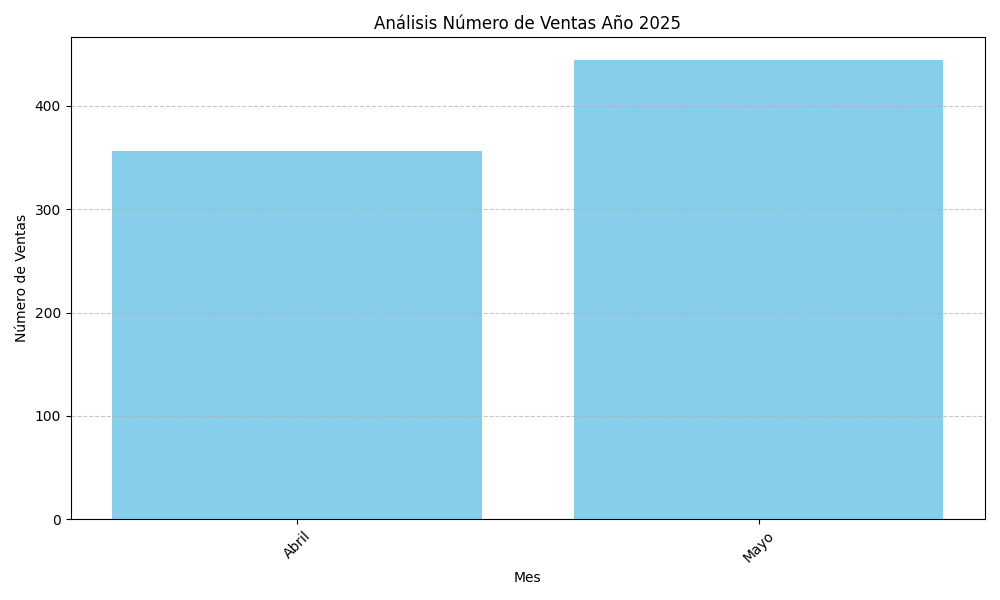
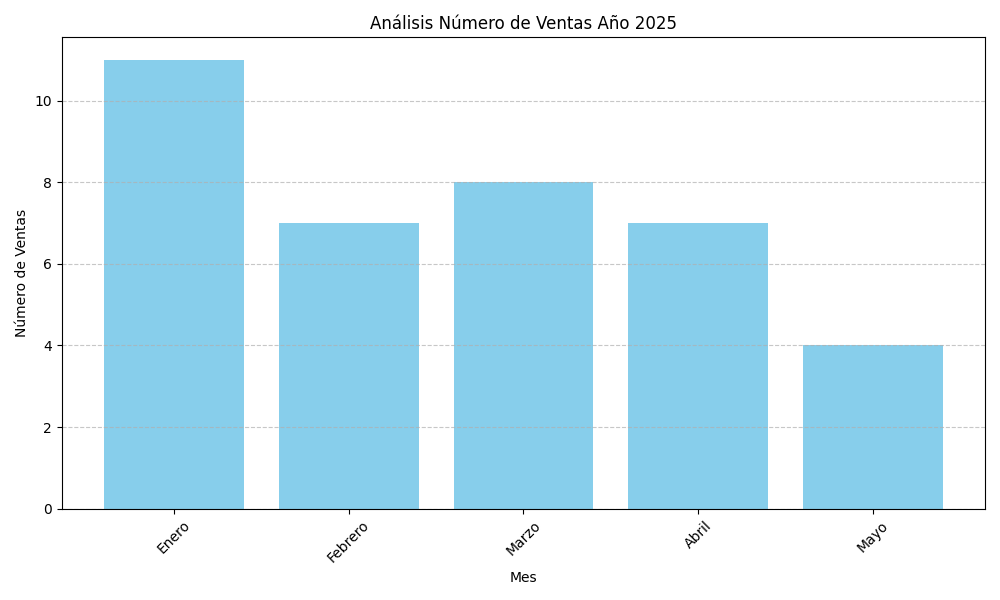
bugfixing de datos generados y gráficos

diff --git a/modelo_db/datos_random.py b/modelo_db/datos_random.py
@@ -1,7 +1,7 @@
 import psycopg2
 from faker import Faker
 import random
-from datetime import datetime, timedelta
+from datetime import datetime
 
 
 def generar_datos_random():
@@ -22,7 +22,7 @@ def generar_datos_random():
     generarIngredientes() #5
     generarConsumibles(5) #5
     print("Datos generados correctamente")
-    generarVentas(800)
+    generarVentas(2000)
     print("Ventas generadas correctamente")
     
     conn_dr.commit()
@@ -127,7 +127,7 @@ def generarConsumibles(n):
             VALUES (%s, %s, %s)
         """, (nombre, precio, categoria))
 
-def registrarIngredientesUsados(id_venta, detalles):
+def registrarIngredientesUsados(id_venta, detalles, fecha_venta):
     for id_cons, cantidad_vendida in detalles:
         cur_dr.execute('SELECT "Nombre" FROM "Consumibles" WHERE "Id_consumibles" = %s', (id_cons,))
         res = cur_dr.fetchone()
@@ -149,8 +149,8 @@ def registrarIngredientesUsados(id_venta, detalles):
             cur_dr.execute("""
                 INSERT INTO "Hechos_Ingredientes_Usados"
                 ("FK_Id_consumible", "FK_Id_ingrediente", "Cantidad", "Fecha_uso", "FK_Id_cocinero")
-                VALUES (%s, %s, %s, NOW(), %s)
-            """, (id_cons, id_ingrediente, cantidad_total, id_cocinero))
+                VALUES (%s, %s, %s, %s, %s)
+            """, (id_cons, id_ingrediente, cantidad_total, fecha_venta, id_cocinero))
 
 def generarVentas(n):
     cur_dr.execute('SELECT "Id_mesero" FROM "Mesero"')
@@ -166,7 +166,7 @@ def generarVentas(n):
         id_mesero = random.choice(meseros)
         id_medio = random.choice(medios)
         id_mesa = random.randint(1, 10)
-        fecha_venta = fake.date_time_between(start_date='-30d', end_date='now')
+        fecha_venta = fake.date_time_between(start_date=datetime(2010, 1, 1), end_date=datetime.now())
         num_productos = random.randint(1, 5)
         productos_vendidos = random.sample(consumibles, min(num_productos, len(consumibles)))
         monto_total = 0
@@ -187,4 +187,4 @@ def generarVentas(n):
                 INSERT INTO "Consumibles_Vendidos" ("FK_Id_Venta", "FK_Id_Consumible", "Cantidad")
                 VALUES (%s, %s, %s)
             """, (id_venta, id_prod, cantidad))
-        registrarIngredientesUsados(id_venta, detalles)
+        registrarIngredientesUsados(id_venta, detalles, fecha_venta)

diff --git a/analisis.py b/analisis.py
@@ -7,6 +7,7 @@ from generador_gráficos.funciones_graficos import *
 def main():
     if (len(sys.argv) != 2):
         print("Error, ejecute como: python analisis.py 'año'")
+        sys.exit(1)
 
     año = sys.argv[1]
     carpeta_año = Path(f"gráficos/{año}")
@@ -19,31 +20,19 @@ def main():
     print("> (Barras) Número de ventas por mes generado con éxito")
 
     graficar_total_ventas_por_mes(año)
-    print("> (Barras) Número total de ventas por mes generado con éxito")
+    print("> (Barras) Total ventas por mes generado con éxito")
 
     graficar_ventas_consumibles(año)
-    print("> (Barras) Consumible más vendido por mes generado con éxito")
+    print("> (Barras) Ventas por consumibles generado con éxito")
 
-    #ventas_por_mesero_por_mes(año)
-    print("> (Barras) Ventas por mesero por mes generado con éxito")
-    
-    #ventas_consumibles_por_mes(año)
-    print("> (Barras) Número de ventas de cada consumible por mes generado con éxito")
+    ventas_realizadas_mesero_por_año(año)
+    print("> (Torta) Ventas realizadas por mesero generado con éxito")
 
-    #ingrediende_mas_usado_por_mes(año)
-    print("> (Barras) Ingrediente más usado por mes generado con éxito")
+    total_ventas_mesero_por_año(año)
+    print("> (Torta) Montos totales de las ventas realizadas por los meseros generado con éxito")
 
-    #ingredientes_por_cocinero_por_mes(año)
-    print("> (Barras) Cocineros que utilizan más ingredientes por mes generado con éxito")
-
-    #numero_ingredientes_usados_por_mes(año)
-    print("> (Barras) Número de ingredientes usados por mes generado con éxito")
-
-    #ventas_mesero_por_año(año)
-    print("> (Torta) Número de ventas por mesero en todo el año generado con éxito")
-
-    #total_uso_ingredientes_por_cocinero(año)
-    print("> (Torta) Cocineros que utilizan más ingredientes por mes generado con éxito")
+    graficar_uso_ingredientes(año)
+    print("> (Barras) Uso de ingredientes generado con éxito")
 
 
 if __name__ == "__main__":

diff --git a/generador_gráficos/funciones_graficos.py b/generador_gráficos/funciones_graficos.py
@@ -1,6 +1,5 @@
 from sqlalchemy import create_engine
 import pandas as pd
-import numpy as np
 import matplotlib.pyplot as plt
 
 def clasificar_mes(mes:int) -> str:
@@ -22,6 +21,7 @@ def clasificar_mes(mes:int) -> str:
     }
 
     return meses.get(mes, "Mes no válido")
+
 
 def graficar_numero_ventas_por_mes(año:int) -> None:
     #Genera un gráfico de barras con el número de ventas por mes
@@ -144,7 +144,6 @@ def graficar_ventas_consumibles(año:int) -> None:
         plt.ylabel('Cantidad Vendida')
         plt.xticks(rotation=45)
         plt.legend(title='Consumible')
-        plt.yticks(np.arange(0, df_pivot.values.max() + 1, 1))
         plt.tight_layout()
         plt.savefig(f'gráficos/{año}/grafico_ventas_consumibles_{año}.png')
         plt.close()
@@ -198,7 +197,7 @@ def ventas_realizadas_mesero_por_año(año: int):
 
 
 def total_ventas_mesero_por_año(año: int):
-# Genera un gráfico de torta con los porcentajes de los montos totales de las ventas realizadas por los meseros
+    '''Genera un gráfico de torta con los porcentajes de los montos totales de las ventas realizadas por los meseros'''
     try:
         # Conexión a la base de datos
         engine = create_engine('postgresql+psycopg2://usuario_restaurante:1234@localhost/sistema_restaurante')
@@ -269,9 +268,6 @@ def graficar_uso_ingredientes(año:int) -> None:
         plt.ylabel('Cantidad Usado')
         plt.xticks(rotation=45)
         plt.legend(title='Ingrediente')
-
-        plt.yticks(np.arange(0, df_pivot.values.max() + 1, 1))
-
         plt.tight_layout()
         plt.savefig(f'gráficos/{año}/grafico_uso_ingredientes_{año}.png')
         plt.close()

diff --git a/modelo_db/crear_sistema_restaurante.py b/modelo_db/crear_sistema_restaurante.py
@@ -1,6 +1,6 @@
 import psycopg2
 from getpass import getpass
-import datos_random
+import datos_random as dr
 
 
 def crear_sistema_restaurantes():
@@ -107,7 +107,7 @@ if __name__ == "__main__":
         crear_esquema_bd()
 
         # Generar datos aleatorios
-        datos_random.generar_datos_random()
+        dr.generar_datos_random()
         
         cur.close()
         conn.close()
